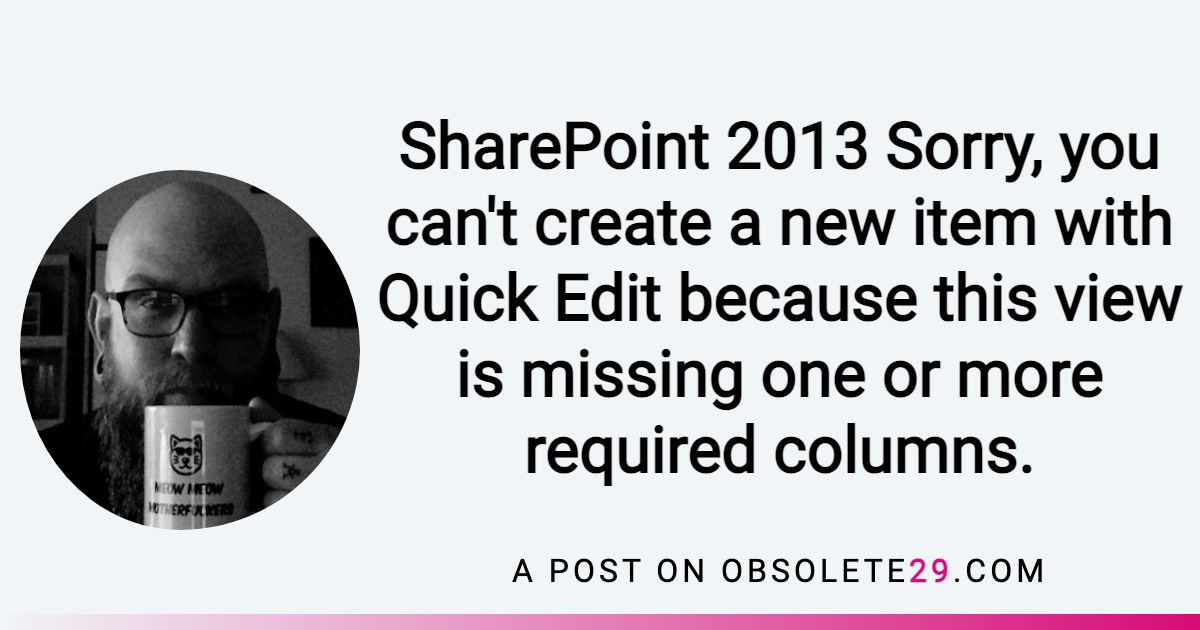
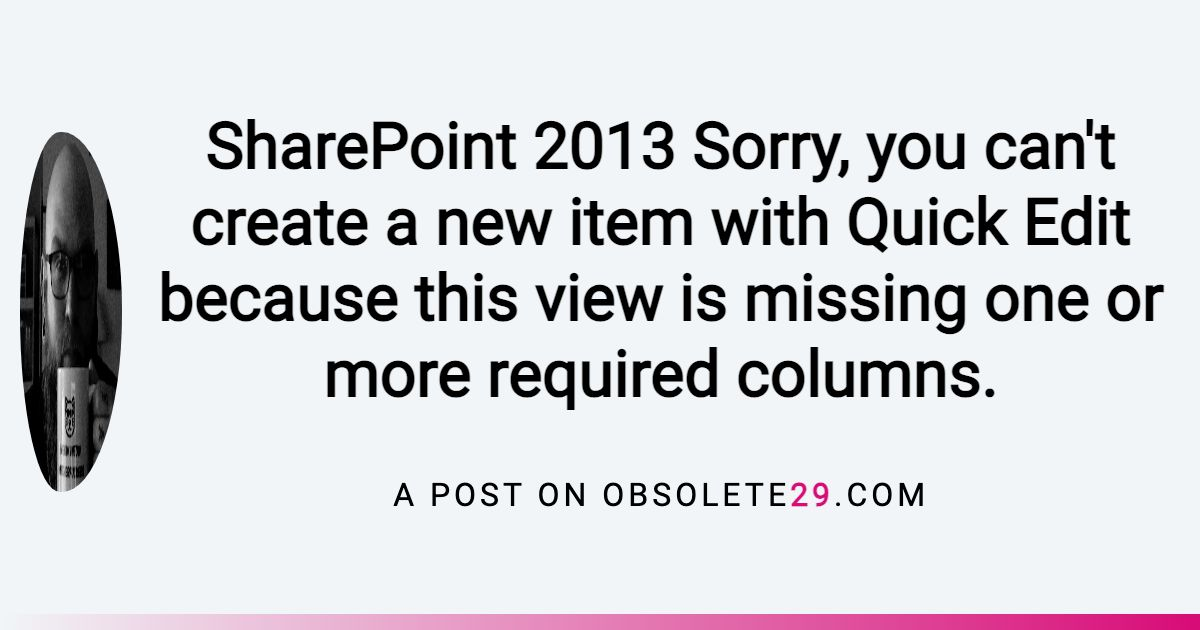
Refactor mobile styling

Changed region(s): [[0.0, 0.181, 0.9867, 0.8444], [0.3083, 0.6635, 0.8633, 0.8143], [0.4317, 0.8746, 0.8633, 0.9349]]

diff --git a/assets/css/style.css b/assets/css/style.css
@@ -47,7 +47,7 @@
 }
 
 ul {
-    padding: 0;
+    padding-left: 16px;
 }
 
 img,
@@ -134,13 +134,28 @@ h1 {
     margin-right: 1em;
 }
 
+.site-top-nav__link-img {
+    display: none;
+}
+
 @media (max-width: 501px) {
+
     .site-top-nav__links {
-        margin-top: 1em;
+        margin-top: 0;
+        align-self: center;
     }
 
     .site-top-nav__link:not(:last-child) {
         margin-right: 2em;
+    }
+
+    .site-top-nav__link--home {
+        display: none;
+    }
+
+    .site-top-nav__link-img {
+        display: block;
+        border-radius: 50%;
     }
 }
   
@@ -176,6 +191,13 @@ color: var(--color-accent);
     margin: 0 auto 1em auto;
     height: 320px;
     width: 320px;
+}
+
+
+@media (max-width: 501px) {
+    .profile__image {
+        display: none;
+    }
 }
 
 .profile__info {
@@ -236,6 +258,7 @@ color: var(--color-accent);
     color: var(--color-accent);
     font-weight: var(--weight-light);
     text-decoration: none;
+    max-width: 85%;
 }
 
 @media screen and (min-width: 501px) {
@@ -335,6 +358,11 @@ color: var(--color-accent);
 
 .post__discussion-icon {
     width: 22px;
+}
+
+.post__50-percent-container {
+    width: 50%;
+    display: flex;
 }
 
 /* Footer */

diff --git a/posts/sharepoint-2013-sorry-you-cant-create-a-new-item-with-quick-edit/index.html b/posts/sharepoint-2013-sorry-you-cant-create-a-new-item-with-quick-edit/index.html
@@ -15,7 +15,7 @@
     <link rel="manifest" href="/assets/img/favicon/site.webmanifest">
     <link rel="shortcut icon" href="/assets/img/favicon/favicon.ico">
     <!-- RSS feeds -->
-    <link rel="alternate" href="/feed/feed.xml" type="application/atom+xml" title="Michael Harley / obsolete29.com">
+    <link rel="alternate" href="https://obsolete29.com/feed/feed.xml" type="application/atom+xml" title="Michael Harley / obsolete29.com">
     <!-- SEO -->
     <title>SharePoint 2013 Sorry, you can&#39;t create a new item with Quick Edit because this view is missing one or more required columns.</title>
     
@@ -49,6 +49,7 @@
         <div class="container">
             <nav class="site-top-nav">
                 <a class="site-top-nav__link site-top-nav__link--home"href="/"><span class="site-top-nav__home-character">></span>obsolete29.com</a>
+                <a class="site-top-nav__link" href="/"><img class="site-top-nav__link-img" src="/assets/img/profile-photo-small.jpg" alt=""></a>
                 <section class="site-top-nav__links">
                     <a href="/posts/" class="site-top-nav__link">writing</a>
                 </section>

diff --git a/posts/configuring-responsive-images-eleventy/index.html b/posts/configuring-responsive-images-eleventy/index.html
@@ -15,7 +15,7 @@
     <link rel="manifest" href="/assets/img/favicon/site.webmanifest">
     <link rel="shortcut icon" href="/assets/img/favicon/favicon.ico">
     <!-- RSS feeds -->
-    <link rel="alternate" href="/feed/feed.xml" type="application/atom+xml" title="Michael Harley / obsolete29.com">
+    <link rel="alternate" href="https://obsolete29.com/feed/feed.xml" type="application/atom+xml" title="Michael Harley / obsolete29.com">
     <!-- SEO -->
     <title>Configuring responsive and optimized images with Eleventy</title>
     
@@ -49,6 +49,7 @@
         <div class="container">
             <nav class="site-top-nav">
                 <a class="site-top-nav__link site-top-nav__link--home"href="/"><span class="site-top-nav__home-character">></span>obsolete29.com</a>
+                <a class="site-top-nav__link" href="/"><img class="site-top-nav__link-img" src="/assets/img/profile-photo-small.jpg" alt=""></a>
                 <section class="site-top-nav__links">
                     <a href="/posts/" class="site-top-nav__link">writing</a>
                 </section>

diff --git a/posts/stlying-inline-svg-images/index.html b/posts/stlying-inline-svg-images/index.html
@@ -15,7 +15,7 @@
     <link rel="manifest" href="/assets/img/favicon/site.webmanifest">
     <link rel="shortcut icon" href="/assets/img/favicon/favicon.ico">
     <!-- RSS feeds -->
-    <link rel="alternate" href="/feed/feed.xml" type="application/atom+xml" title="Michael Harley / obsolete29.com">
+    <link rel="alternate" href="https://obsolete29.com/feed/feed.xml" type="application/atom+xml" title="Michael Harley / obsolete29.com">
     <!-- SEO -->
     <title>Styling inline SVG images with an external style sheet</title>
     
@@ -49,6 +49,7 @@
         <div class="container">
             <nav class="site-top-nav">
                 <a class="site-top-nav__link site-top-nav__link--home"href="/"><span class="site-top-nav__home-character">></span>obsolete29.com</a>
+                <a class="site-top-nav__link" href="/"><img class="site-top-nav__link-img" src="/assets/img/profile-photo-small.jpg" alt=""></a>
                 <section class="site-top-nav__links">
                     <a href="/posts/" class="site-top-nav__link">writing</a>
                 </section>

diff --git a/posts/lessons-learned-from-bridgestone/index.html b/posts/lessons-learned-from-bridgestone/index.html
@@ -15,7 +15,7 @@
     <link rel="manifest" href="/assets/img/favicon/site.webmanifest">
     <link rel="shortcut icon" href="/assets/img/favicon/favicon.ico">
     <!-- RSS feeds -->
-    <link rel="alternate" href="/feed/feed.xml" type="application/atom+xml" title="Michael Harley / obsolete29.com">
+    <link rel="alternate" href="https://obsolete29.com/feed/feed.xml" type="application/atom+xml" title="Michael Harley / obsolete29.com">
     <!-- SEO -->
     <title>Lessons learned from my time at Bridgestone</title>
     
@@ -49,6 +49,7 @@
         <div class="container">
             <nav class="site-top-nav">
                 <a class="site-top-nav__link site-top-nav__link--home"href="/"><span class="site-top-nav__home-character">></span>obsolete29.com</a>
+                <a class="site-top-nav__link" href="/"><img class="site-top-nav__link-img" src="/assets/img/profile-photo-small.jpg" alt=""></a>
                 <section class="site-top-nav__links">
                     <a href="/posts/" class="site-top-nav__link">writing</a>
                 </section>

diff --git a/posts/building-my-personal-site-with-eleventy/index.html b/posts/building-my-personal-site-with-eleventy/index.html
@@ -15,7 +15,7 @@
     <link rel="manifest" href="/assets/img/favicon/site.webmanifest">
     <link rel="shortcut icon" href="/assets/img/favicon/favicon.ico">
     <!-- RSS feeds -->
-    <link rel="alternate" href="/feed/feed.xml" type="application/atom+xml" title="Michael Harley / obsolete29.com">
+    <link rel="alternate" href="https://obsolete29.com/feed/feed.xml" type="application/atom+xml" title="Michael Harley / obsolete29.com">
     <!-- SEO -->
     <title>Building my personal site with Eleventy</title>
     
@@ -49,6 +49,7 @@
         <div class="container">
             <nav class="site-top-nav">
                 <a class="site-top-nav__link site-top-nav__link--home"href="/"><span class="site-top-nav__home-character">></span>obsolete29.com</a>
+                <a class="site-top-nav__link" href="/"><img class="site-top-nav__link-img" src="/assets/img/profile-photo-small.jpg" alt=""></a>
                 <section class="site-top-nav__links">
                     <a href="/posts/" class="site-top-nav__link">writing</a>
                 </section>

diff --git a/index.html b/index.html
@@ -15,7 +15,7 @@
     <link rel="manifest" href="/assets/img/favicon/site.webmanifest">
     <link rel="shortcut icon" href="/assets/img/favicon/favicon.ico">
     <!-- RSS feeds -->
-    <link rel="alternate" href="/feed/feed.xml" type="application/atom+xml" title="Michael Harley / obsolete29.com">
+    <link rel="alternate" href="https://obsolete29.com/feed/feed.xml" type="application/atom+xml" title="Michael Harley / obsolete29.com">
     <!-- SEO -->
     <title>Michael Harley, chief goblin herder</title>
     
@@ -49,6 +49,7 @@
         <div class="container">
             <nav class="site-top-nav">
                 <a class="site-top-nav__link site-top-nav__link--home"href="/"><span class="site-top-nav__home-character">></span>obsolete29.com</a>
+                <a class="site-top-nav__link" href="/"><img class="site-top-nav__link-img" src="/assets/img/profile-photo-small.jpg" alt=""></a>
                 <section class="site-top-nav__links">
                     <a href="/posts/" class="site-top-nav__link">writing</a>
                 </section>

diff --git a/posts/learning-web-dev/index.html b/posts/learning-web-dev/index.html
@@ -15,7 +15,7 @@
     <link rel="manifest" href="/assets/img/favicon/site.webmanifest">
     <link rel="shortcut icon" href="/assets/img/favicon/favicon.ico">
     <!-- RSS feeds -->
-    <link rel="alternate" href="/feed/feed.xml" type="application/atom+xml" title="Michael Harley / obsolete29.com">
+    <link rel="alternate" href="https://obsolete29.com/feed/feed.xml" type="application/atom+xml" title="Michael Harley / obsolete29.com">
     <!-- SEO -->
     <title>I&#39;m learning web development</title>
     
@@ -49,6 +49,7 @@
         <div class="container">
             <nav class="site-top-nav">
                 <a class="site-top-nav__link site-top-nav__link--home"href="/"><span class="site-top-nav__home-character">></span>obsolete29.com</a>
+                <a class="site-top-nav__link" href="/"><img class="site-top-nav__link-img" src="/assets/img/profile-photo-small.jpg" alt=""></a>
                 <section class="site-top-nav__links">
                     <a href="/posts/" class="site-top-nav__link">writing</a>
                 </section>

diff --git a/posts/welcome-to-obsolete29-v1/index.html b/posts/welcome-to-obsolete29-v1/index.html
@@ -15,7 +15,7 @@
     <link rel="manifest" href="/assets/img/favicon/site.webmanifest">
     <link rel="shortcut icon" href="/assets/img/favicon/favicon.ico">
     <!-- RSS feeds -->
-    <link rel="alternate" href="/feed/feed.xml" type="application/atom+xml" title="Michael Harley / obsolete29.com">
+    <link rel="alternate" href="https://obsolete29.com/feed/feed.xml" type="application/atom+xml" title="Michael Harley / obsolete29.com">
     <!-- SEO -->
     <title>Welcome to obsolete29.com v1.0!</title>
     
@@ -49,6 +49,7 @@
         <div class="container">
             <nav class="site-top-nav">
                 <a class="site-top-nav__link site-top-nav__link--home"href="/"><span class="site-top-nav__home-character">></span>obsolete29.com</a>
+                <a class="site-top-nav__link" href="/"><img class="site-top-nav__link-img" src="/assets/img/profile-photo-small.jpg" alt=""></a>
                 <section class="site-top-nav__links">
                     <a href="/posts/" class="site-top-nav__link">writing</a>
                 </section>

diff --git a/posts/index.html b/posts/index.html
@@ -15,7 +15,7 @@
     <link rel="manifest" href="/assets/img/favicon/site.webmanifest">
     <link rel="shortcut icon" href="/assets/img/favicon/favicon.ico">
     <!-- RSS feeds -->
-    <link rel="alternate" href="/feed/feed.xml" type="application/atom+xml" title="Michael Harley / obsolete29.com">
+    <link rel="alternate" href="https://obsolete29.com/feed/feed.xml" type="application/atom+xml" title="Michael Harley / obsolete29.com">
     <!-- SEO -->
     <title>Posts by Michael Harley</title>
     
@@ -49,6 +49,7 @@
         <div class="container">
             <nav class="site-top-nav">
                 <a class="site-top-nav__link site-top-nav__link--home"href="/"><span class="site-top-nav__home-character">></span>obsolete29.com</a>
+                <a class="site-top-nav__link" href="/"><img class="site-top-nav__link-img" src="/assets/img/profile-photo-small.jpg" alt=""></a>
                 <section class="site-top-nav__links">
                     <a href="/posts/" class="site-top-nav__link">writing</a>
                 </section>

diff --git a/contact/index.html b/contact/index.html
@@ -15,7 +15,7 @@
     <link rel="manifest" href="/assets/img/favicon/site.webmanifest">
     <link rel="shortcut icon" href="/assets/img/favicon/favicon.ico">
     <!-- RSS feeds -->
-    <link rel="alternate" href="/feed/feed.xml" type="application/atom+xml" title="Michael Harley / obsolete29.com">
+    <link rel="alternate" href="https://obsolete29.com/feed/feed.xml" type="application/atom+xml" title="Michael Harley / obsolete29.com">
     <!-- SEO -->
     <title>Contact Michael Harley</title>
     
@@ -49,6 +49,7 @@
         <div class="container">
             <nav class="site-top-nav">
                 <a class="site-top-nav__link site-top-nav__link--home"href="/"><span class="site-top-nav__home-character">></span>obsolete29.com</a>
+                <a class="site-top-nav__link" href="/"><img class="site-top-nav__link-img" src="/assets/img/profile-photo-small.jpg" alt=""></a>
                 <section class="site-top-nav__links">
                     <a href="/posts/" class="site-top-nav__link">writing</a>
                 </section>

diff --git a/posts/why-im-an-atheist/index.html b/posts/why-im-an-atheist/index.html
@@ -15,7 +15,7 @@
     <link rel="manifest" href="/assets/img/favicon/site.webmanifest">
     <link rel="shortcut icon" href="/assets/img/favicon/favicon.ico">
     <!-- RSS feeds -->
-    <link rel="alternate" href="/feed/feed.xml" type="application/atom+xml" title="Michael Harley / obsolete29.com">
+    <link rel="alternate" href="https://obsolete29.com/feed/feed.xml" type="application/atom+xml" title="Michael Harley / obsolete29.com">
     <!-- SEO -->
     <title>Why I&#39;m an atheist</title>
     
@@ -49,6 +49,7 @@
         <div class="container">
             <nav class="site-top-nav">
                 <a class="site-top-nav__link site-top-nav__link--home"href="/"><span class="site-top-nav__home-character">></span>obsolete29.com</a>
+                <a class="site-top-nav__link" href="/"><img class="site-top-nav__link-img" src="/assets/img/profile-photo-small.jpg" alt=""></a>
                 <section class="site-top-nav__links">
                     <a href="/posts/" class="site-top-nav__link">writing</a>
                 </section>
